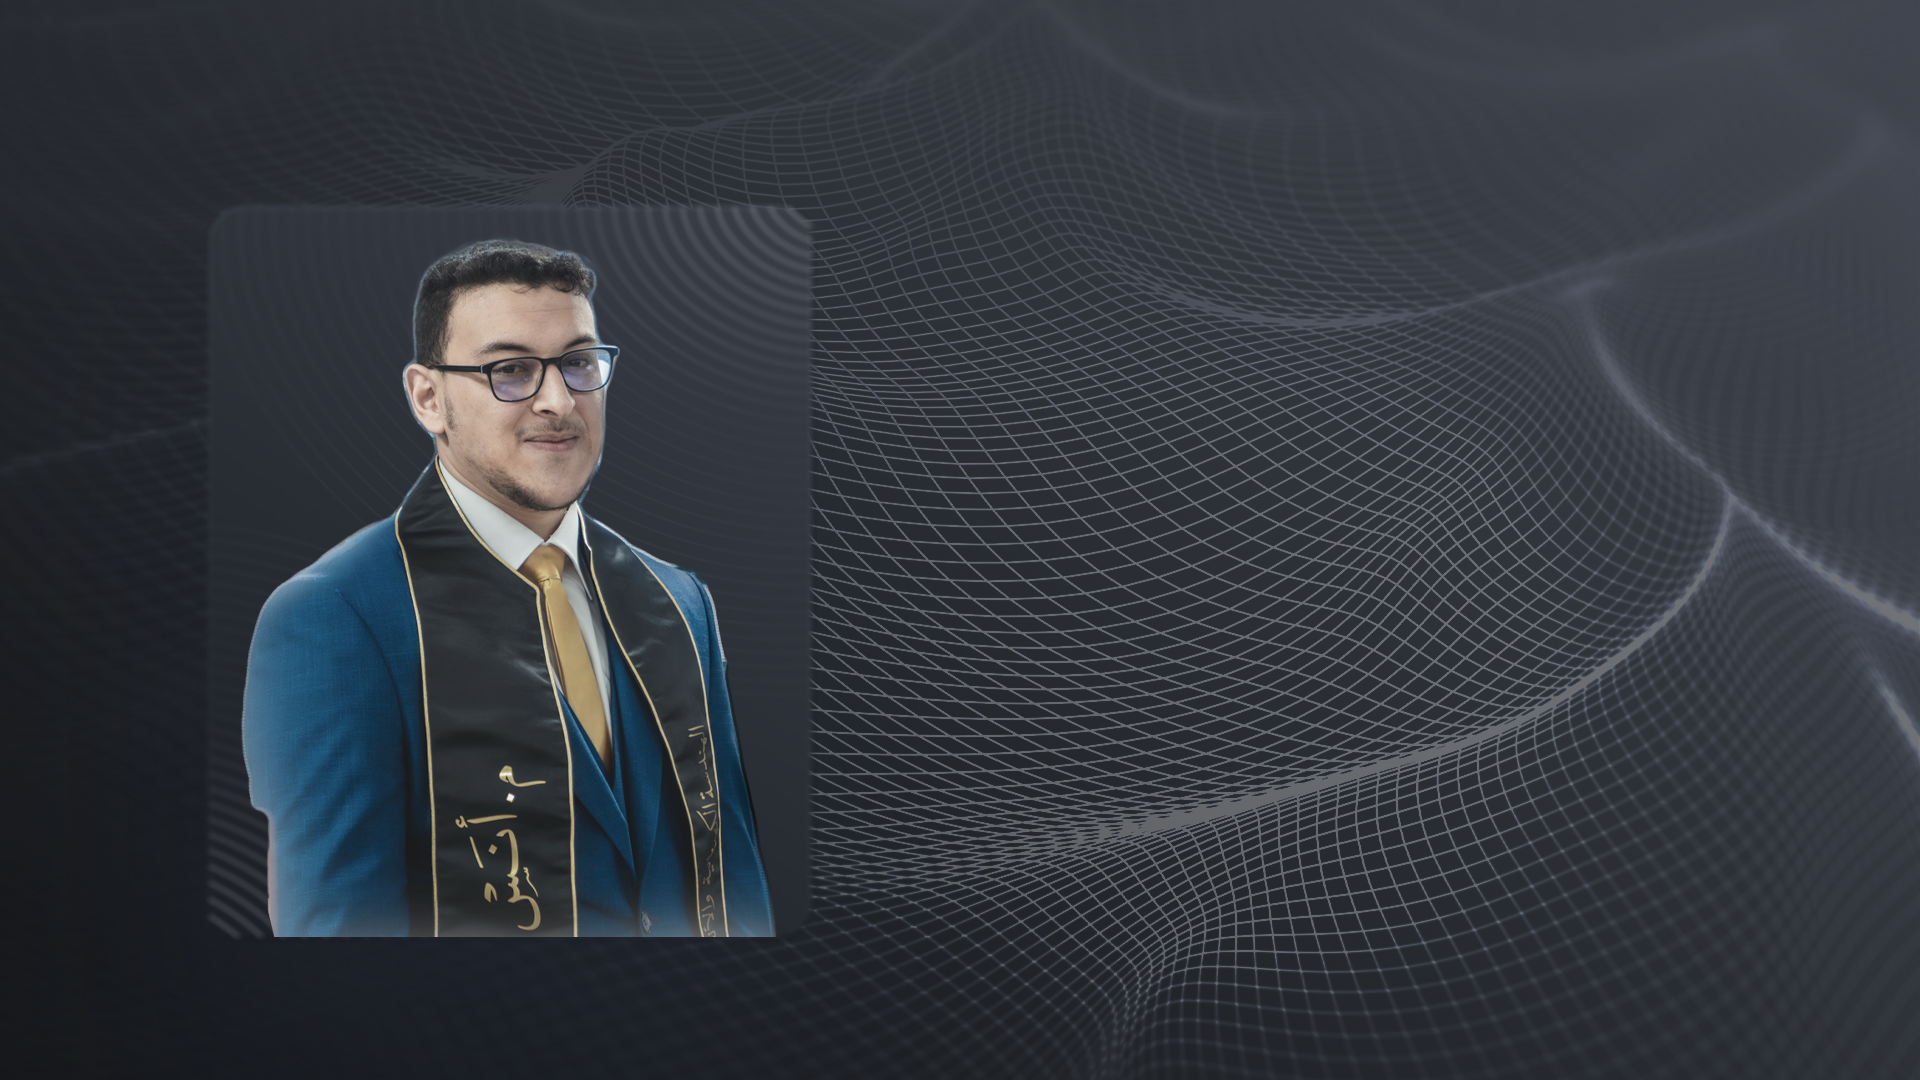
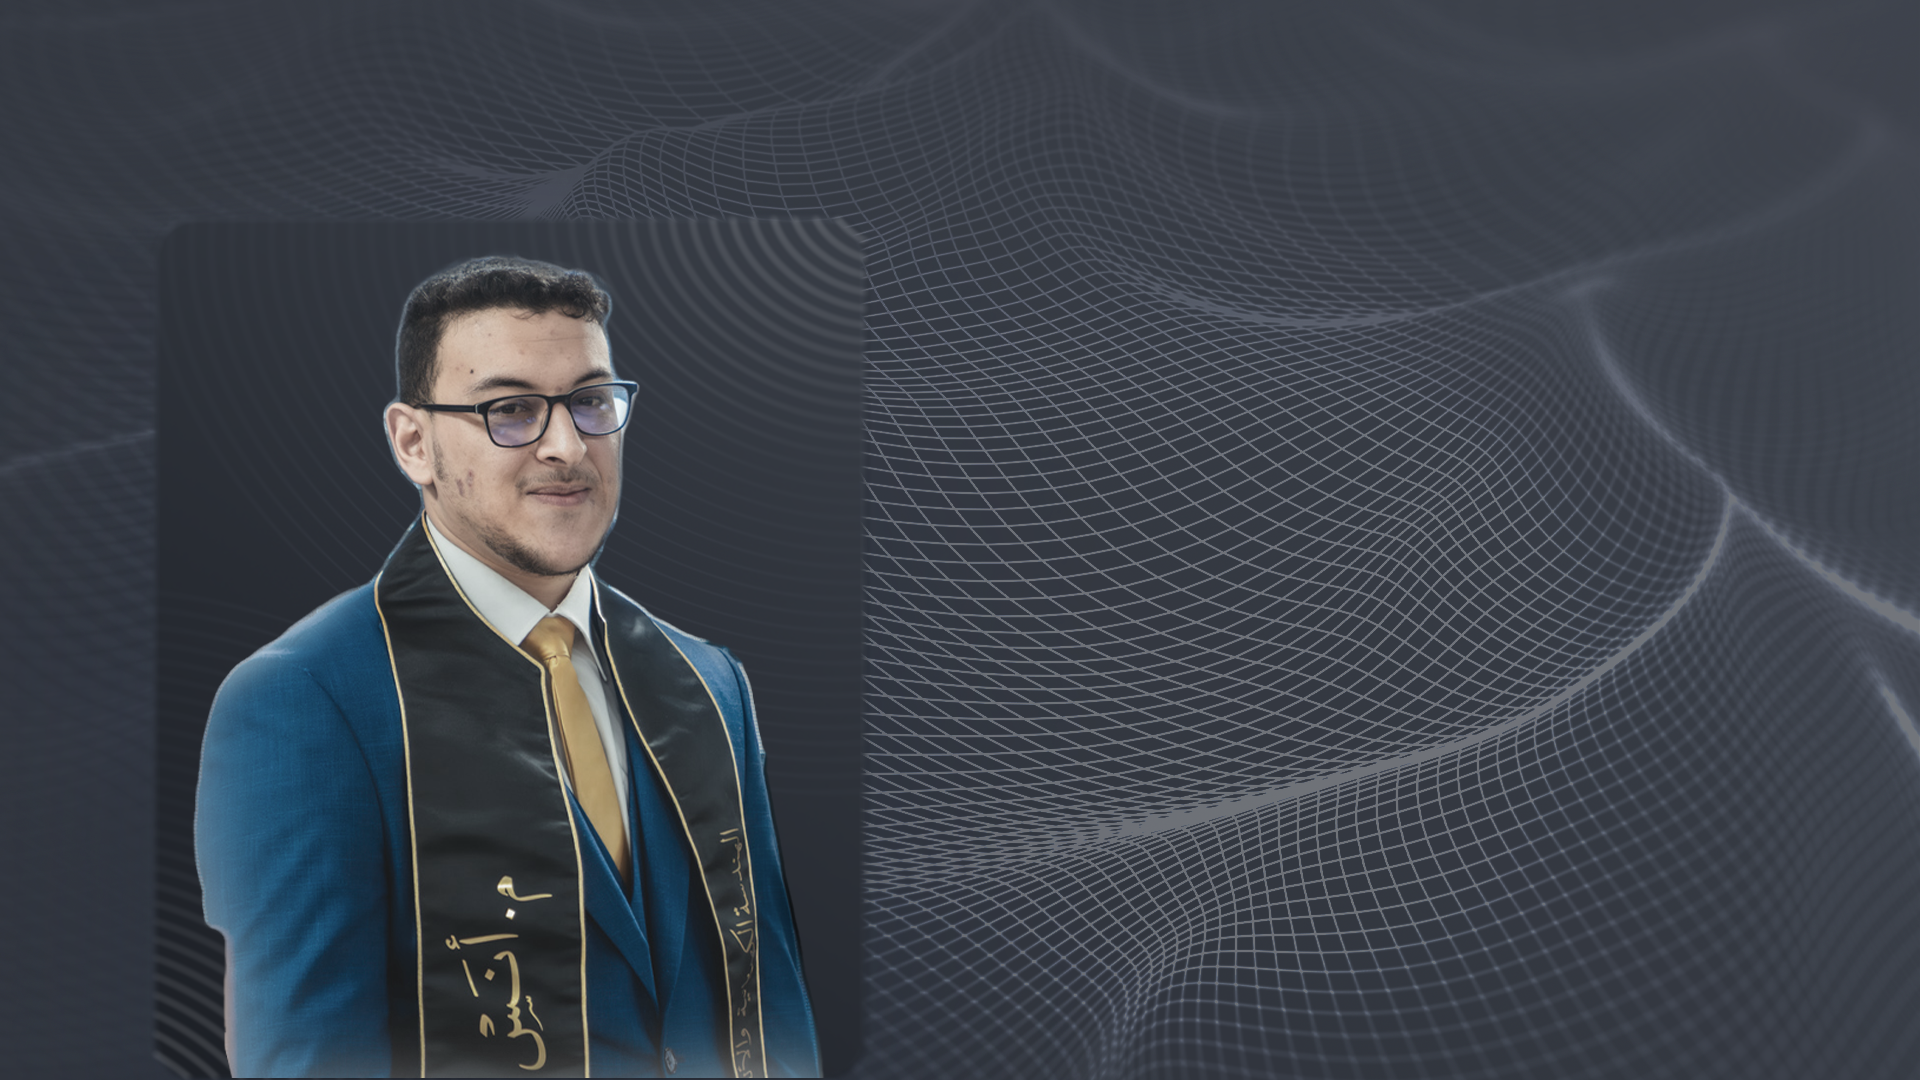
تعديل صورة خلفية

Changed region(s): [[0.0, 0.2139, 0.75, 1.0], [0.4062, 0.2139, 0.4688, 0.3361], [0.4375, 0.55, 0.4688, 0.6111]]

diff --git a/style.css b/style.css
@@ -55,7 +55,7 @@ body {
 /* القسم الرئيسي */
 .main {
     background: linear-gradient(rgba(0, 0, 0, 0.4), rgba(0, 0, 0, 0.4)),
-                url(imeges/anas1.png) center/cover fixed;
+                url(imeges/anas.png) center/cover fixed;
     min-height: 100vh;
     margin-top: 76px;
     display: flex;
